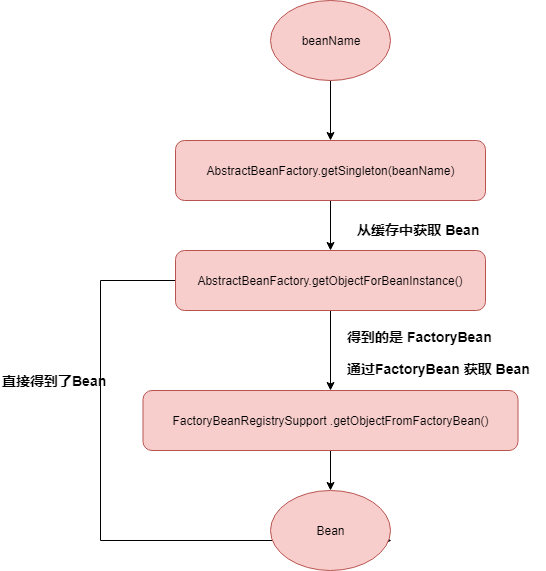
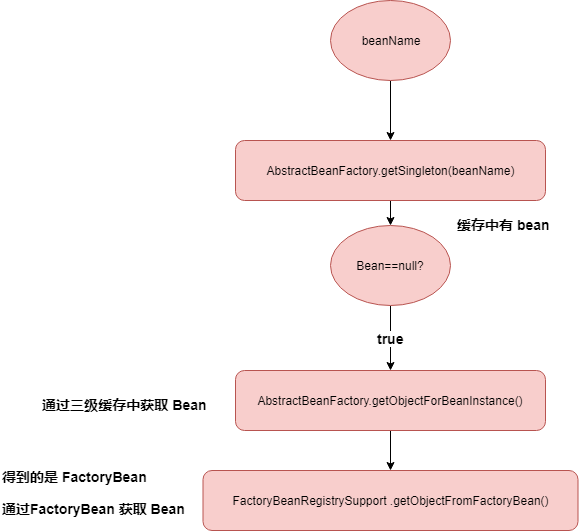
Spring源码之Bean的加载

Changed region(s): [[0.0, 0.6316, 1.0, 1.0], [0.1868, 0.0, 0.9652, 0.6015], [0.0, 0.6316, 0.1868, 0.6917]]

diff --git a/md/开源/Spring/(6)IoC之Bean的创建.md b/md/开源/Spring/(6)IoC之Bean的创建.md
@@ -2,6 +2,8 @@
 
 [TOC]
 
+## 前言
+
 在前面我们做了那么那么多的工作，我们终于将 BeanDefinition 给注册了，回顾一下我们前面的工作
 
 ![](https://github.com/esmusssein777/study/blob/master/md/picture/XML2BeanDefinition.png?raw=true)
@@ -592,7 +594,381 @@ private final Map<String, Object> factoryBeanObjectCache = new ConcurrentHashMap
 
 我们后面就会讲到。
 
+### 3. 缓存中没有 bean
+
+#### 3.1 检测原型模式
+
+在缓存中尝试获取了 Bean 之后，继续往后面走
+
+```
+			// AbstractBeanFactory.java
+			//检测
+			if (isPrototypeCurrentlyInCreation(beanName)) {
+				//因为 Spring 只解决单例模式下得循环依赖，在原型模式下如果存在循环依赖则会抛出异常。
+				throw new BeanCurrentlyInCreationException(beanName);
+			}
+```
+
+仔细看这个方法 isPrototypeCurrentlyInCreation(beanName)
+
+```
+			
+				private final ThreadLocal<Object> prototypesCurrentlyInCreation =
+			new NamedThreadLocal<>("Prototype beans currently in creation");
+			
+            protected boolean isPrototypeCurrentlyInCreation(String beanName) {
+		Object curVal = this.prototypesCurrentlyInCreation.get();
+		return (curVal != null &&
+				(curVal.equals(beanName) || (curVal instanceof Set && ((Set<?>) curVal).contains(beanName))));
+	}
+```
+
+这个方法是检测这个 `beanName` 是否处于原型模式下的循环依赖。检查的方法就是将它放入 ThreadLocal 里面，这个 ThreadLocal  放着正在创建的 Bean，只不过它不是一个全局的 Set，而是一个 ThreadLocal,原型模式 prototype 的定义是每次通过Spring容器获取prototype定义的bean时，容器都将创建一个新的Bean实例。所以需要的是 ThreadLocal 。
+
+#### 3.2. parentBeanFactory从父类容器中加载
+
+如果从单例模式没有获取 bean 则尝试从父类 beanFactory 中获取。
+
+```
+			// 如果容器中没有找到，则从父类容器中加载
+			BeanFactory parentBeanFactory = getParentBeanFactory();
+			// parentBeanFactory 不为空且 beanDefinitionMap 中不存该 name 的 BeanDefinition
+			if (parentBeanFactory != null && !containsBeanDefinition(beanName)) {
+				// 确定原始 beanName
+				String nameToLookup = originalBeanName(name);
+				// 如果，父类容器为 AbstractBeanFactory ，直接递归查找
+				if (parentBeanFactory instanceof AbstractBeanFactory) {
+					return ((AbstractBeanFactory) parentBeanFactory).doGetBean(
+							nameToLookup, requiredType, args, typeCheckOnly);
+				}
+				// 委托给构造函数 getBean() 处理
+				else if (args != null) {
+					// Delegation to parent with explicit args.
+					return (T) parentBeanFactory.getBean(nameToLookup, args);
+				}
+				// 没有 args，委托给标准的 getBean() 处理
+				else if (requiredType != null) {
+					return parentBeanFactory.getBean(nameToLookup, requiredType);
+				}
+				else {
+					return (T) parentBeanFactory.getBean(nameToLookup);
+				}
+			}
+```
+
+若 parentBeanFactory 不为空且 beanDefinitionMap 中不存该 name 的 BeanDefinition，则从 `parentBeanFactory` 中获取
+
+#### 3.3 类型检查
+
+继续向下
+
+```
+			if (!typeCheckOnly) {
+				// 如果不是仅仅做类型检查则是创建bean，这里需要记录
+				markBeanAsCreated(beanName);
+			}
+```
+
+如果不是仅仅做类型检查，而是创建 Bean 对象，则需要调用 `#markBeanAsCreated(String beanName)` 方法，进行记录。
+
+```
+// AbstractBeanFactory.java
+
+/**
+ *  已创建 Bean 的名字集合
+ */
+private final Set<String> alreadyCreated = Collections.newSetFromMap(new ConcurrentHashMap<>(256));
+
+protected void markBeanAsCreated(String beanName) {
+    // 没有创建
+    if (!this.alreadyCreated.contains(beanName)) {
+        // 加上全局锁
+        synchronized (this.mergedBeanDefinitions) {
+            // 再次检查一次：DCL 双检查模式
+            if (!this.alreadyCreated.contains(beanName)) {
+                // 从 mergedBeanDefinitions 中删除 beanName，并在下次访问时重新创建它。
+                clearMergedBeanDefinition(beanName);
+                // 添加到已创建 bean 集合中
+                this.alreadyCreated.add(beanName);
+            }
+        }
+    }
+}
+
+protected void clearMergedBeanDefinition(String beanName) {
+    this.mergedBeanDefinitions.remove(beanName);
+}
+```
+
+#### 3.4 获取 RootBeanDefinition
+
+```
+// AbstractBeanFactory.java
+
+// 从容器中获取 beanName 相应的 GenericBeanDefinition 对象，并将其转换为 RootBeanDefinition 对象
+final RootBeanDefinition mbd = getMergedLocalBeanDefinition(beanName);
+// 检查给定的合并的 BeanDefinition
+checkMergedBeanDefinition(mbd, beanName, args);
+```
+
+调用 `#getMergedLocalBeanDefinition(String beanName)` 方法，获取相对应的 BeanDefinition 对象
+
+```
+// AbstractBeanFactory.java
+
+/** Map from bean name to merged RootBeanDefinition. */
+private final Map<String, RootBeanDefinition> mergedBeanDefinitions = new ConcurrentHashMap<>(256);
+
+protected RootBeanDefinition getMergedLocalBeanDefinition(String beanName) throws BeansException {
+    // 快速从缓存中获取，如果不为空，则直接返回
+    RootBeanDefinition mbd = this.mergedBeanDefinitions.get(beanName);
+    if (mbd != null) {
+        return mbd;
+    }
+    // 获取 RootBeanDefinition，
+    // 如果返回的 BeanDefinition 是子类 bean 的话，则合并父类相关属性
+    return getMergedBeanDefinition(beanName, getBeanDefinition(beanName));
+}
+```
+
+- 首先，直接从 `mergedBeanDefinitions` 缓存中获取相应的 RootBeanDefinition 对象，如果存在则直接返回。
+- 否则，调用 `#getMergedBeanDefinition(String beanName, BeanDefinition bd)` 方法，获取 RootBeanDefinition 对象。
+
+调用 `#checkMergedBeanDefinition()` 方法，检查给定的合并的 BeanDefinition 对象。
+
+```
+// AbstractBeanFactory.java
+
+protected void checkMergedBeanDefinition(RootBeanDefinition mbd, String beanName, @Nullable Object[] args)
+		throws BeanDefinitionStoreException {
+	if (mbd.isAbstract()) {
+		throw new BeanIsAbstractException(beanName);
+	}
+}
+```
+
+#### 3.5 处理依赖
+
+如果一个 Bean 有依赖 Bean 的话，那么在初始化该 Bean 时是需要先初始化它所依赖的 Bean 。
+
+```
+// AbstractBeanFactory.java
+
+// 处理所依赖的 bean
+String[] dependsOn = mbd.getDependsOn();
+if (dependsOn != null) {
+    for (String dep : dependsOn) {
+        //若给定的依赖 bean 已经注册为依赖给定的 bean
+        if (isDependent(beanName, dep)) {
+            throw new BeanCreationException(mbd.getResourceDescription(), beanName,
+                    "Circular depends-on relationship between '" + beanName + "' and '" + dep + "'");
+        }
+        //缓存依赖调用
+        registerDependentBean(dep, beanName);
+        try {
+            //递归处理依赖 Bean
+            getBean(dep);
+        } catch (NoSuchBeanDefinitionException ex) {
+            throw new BeanCreationException(mbd.getResourceDescription(), beanName,
+                    "'" + beanName + "' depends on missing bean '" + dep + "'", ex);
+        }
+    }
+}
+```
+
+具体的代码还是通过两个 Map  `dependentBeanMap`、`dependenciesForBeanMap` 来处理，将该映射关系保存到两个集合来递归的处理。
+
+看下上面的过程图
+
+![](https://github.com/esmusssein777/study/blob/master/md/picture/RootBeanDefinition.png?raw=true)
+
+这样我们就得到了我们暂时想要的 RootBeanDefinition
+
+#### 3.6 不同scope 的 Bean 创建
+
+scope 有哪些呢？
+
+* singleton：单例模式，Spring IoC容器中只会存在一个共享的Bean实例，无论有多少个Bean引用它，始终指向同一对象。
+
+* prototype：原型模式，每次通过Spring容器获取prototype定义的bean时，容器都将创建一个新的Bean实例，每个Bean实例都有自己的属性和状态。
+
+* request：在一次Http请求中，容器会返回该Bean的同一实例。而对不同的Http请求则会产生新的Bean，而且该bean仅在当前Http Request内有效。
+
+* session：在一次Http Session中，容器会返回该Bean的同一实例。而对不同的Session请求则会创建新的实例，该bean实例仅在当前Session内有效。
+
+* global Session：在一个全局的Http Session中，容器会返回该Bean的同一个实例，仅在使用portlet context时有效
+
+我们来分析一下
+
+##### 3.6.1 singleton单例模式
+
+```
+				if (mbd.isSingleton()) {// 单例模式
+					sharedInstance = getSingleton(beanName, () -> {
+						try {
+							return createBean(beanName, mbd, args);
+						}
+						catch (BeansException ex) {
+							// 显式从单例缓存中删除 Bean 实例
+							// 因为单例模式下为了解决循环依赖，可能他已经存在了，所以销毁它。
+							destroySingleton(beanName);
+							throw ex;
+						}
+					});
+					bean = getObjectForBeanInstance(sharedInstance, name, beanName, mbd);
+				}
+```
+
+又看到了 getSingleton ,但是和我们之前的不一样。这个方法是由 DefaultSingletonBeanRegistry类的getSingleton(String beanName, ObjectFactory<?> singletonFactory)方法来实现
+
+```
+	//DefaultSingletonBeanRegistry.class
+	public Object getSingleton(String beanName, ObjectFactory<?> singletonFactory) {
+		Assert.notNull(beanName, "Bean name must not be null");
+		// 全局加锁
+		synchronized (this.singletonObjects) {
+			// 从缓存中检查一遍
+			// 因为 singleton 模式其实就是复用已经创建的 bean 所以这步骤必须检查
+			Object singletonObject = this.singletonObjects.get(beanName);
+			if (singletonObject == null) {
+				//  为空，开始加载过程
+				if (this.singletonsCurrentlyInDestruction) {
+					throw new BeanCreationNotAllowedException(beanName,
+							"Singleton bean creation not allowed while singletons of this factory are in destruction " +
+							"(Do not request a bean from a BeanFactory in a destroy method implementation!)");
+				}
+				if (logger.isDebugEnabled()) {
+					logger.debug("Creating shared instance of singleton bean '" + beanName + "'");
+				}
+				// 加载前置处理，前置和后置都很重要，标记bean创建到了哪一步
+				beforeSingletonCreation(beanName);
+				boolean newSingleton = false;
+				boolean recordSuppressedExceptions = (this.suppressedExceptions == null);
+				if (recordSuppressedExceptions) {
+					this.suppressedExceptions = new LinkedHashSet<>();
+				}
+				try {
+					// 初始化 bean
+					// 这个过程其实是调用 createBean() 方法
+					singletonObject = singletonFactory.getObject();
+					newSingleton = true;
+				}
+				catch (IllegalStateException ex) {
+					singletonObject = this.singletonObjects.get(beanName);
+					if (singletonObject == null) {
+						throw ex;
+					}
+				}
+				catch (BeanCreationException ex) {
+					if (recordSuppressedExceptions) {
+						for (Exception suppressedException : this.suppressedExceptions) {
+							ex.addRelatedCause(suppressedException);
+						}
+					}
+					throw ex;
+				}
+				finally {
+					if (recordSuppressedExceptions) {
+						this.suppressedExceptions = null;
+					}
+					//后置处理
+					afterSingletonCreation(beanName);
+				}
+				//加入缓存中
+				if (newSingleton) {
+					addSingleton(beanName, singletonObject);
+				}
+			}
+			return singletonObject;
+		}
+	}
+```
+
+这个过程并没有真正创建 Bean 对象，仅仅只是做了一部分准备和预处理步骤。真正获取单例 bean 的方法，其实是由 `<3>` 处的 `singletonFactory.getObject()` 这部分代码块来实现，而 `singletonFactory` 由回调方法产生。
+
+- 再次检查缓存是否已经加载过，如果已经加载了则直接返回，否则开始加载过程。
+- 调用 `#beforeSingletonCreation(String beanName)` 方法，记录加载单例 bean 之前的加载状态，即前置处理。
+- 调用参数传递的 ObjectFactory 的 `#getObject()` 方法，实例化 bean 。(后面还有好多要讲的)
+- 调用 `#afterSingletonCreation(String beanName)` 方法，进行加载单例后的后置处理。
+- 调用 `#addSingleton(String beanName, Object singletonObject)` 方法，将结果记录并加入值缓存中，同时删除加载 bean 过程中所记录的一些辅助状态
+
+加载了单例 bean 后，调用 `#getObjectForBeanInstance(Object beanInstance, String name, String beanName, RootBeanDefinition mbd)` 方法，从 bean 实例中获取对象。该方法已经在前面有讲过了
+
+##### 3.6.2 prototype原型模式
+
+原型模式很简单，因为不需要缓存，直接创建Bean就行
+
+```
+// AbstractBeanFactory.java
+
+else if (mbd.isPrototype()) {
+    Object prototypeInstance = null;
+    try {
+       //加载前置处理
+        beforePrototypeCreation(beanName);
+        //创建 Bean 对象
+        prototypeInstance = createBean(beanName, mbd, args);
+    } finally {
+       //加载后缀处理
+        afterPrototypeCreation(beanName);
+    }
+    //从 Bean 实例中获取对象
+    bean = getObjectForBeanInstance(prototypeInstance, name, beanName, mbd);
+}
+```
+
+它的前置和后置处理是通过 ThreadLocal 来防止重复创建，将正在创建的 bean 放入 ThreadLocal  来处理
+
+##### 3.6.3 其他三个 scope
+
+```
+// AbstractBeanFactory.java
+
+else {
+    // 获得 scopeName 对应的 Scope 对象
+    String scopeName = mbd.getScope();
+    final Scope scope = this.scopes.get(scopeName);
+    if (scope == null) {
+        throw new IllegalStateException("No Scope registered for scope name '" + scopeName + "'");
+    }
+    try {
+        // 从指定的 scope 下创建 bean
+        Object scopedInstance = scope.get(beanName, () -> {
+            // 加载前置处理
+            beforePrototypeCreation(beanName);
+            try {
+                // 创建 Bean 对象
+                return createBean(beanName, mbd, args);
+            } finally {
+                // 加载后缀处理
+                afterPrototypeCreation(beanName);
+            }
+        });
+        // 从 Bean 实例中获取对象
+        bean = getObjectForBeanInstance(scopedInstance, name, beanName, mbd);
+    } catch (IllegalStateException ex) {
+        throw new BeanCreationException(beanName,
+                "Scope '" + scopeName + "' is not active for the current thread; consider " +
+                "defining a scoped proxy for this bean if you intend to refer to it from a singleton",
+                ex);
+    }
+}
+```
+
+看到其实和 prototype 差不多，区别在于这三个获取 bean 实例是由 `Scope#get(String name, ObjectFactory<?> objectFactory)` 方法来实现。而 prototype 原型模式是通过调用 `#createBean(String beanName)` 方法，创建一个 bean 实例对象。
 
 
 
+关于具体创建 Bean 的代码我们后面再讲，我们就暂时的复习一下我们前面的学习
 
+![](https://github.com/esmusssein777/study/blob/master/md/picture/Scope.png?raw=true)
+
+分析完Scope的工作后我们还有非常主要的一点没有讲，就是关于创建 Bean 的工作，我们这个留着下一节再将吧。
+
+## 小结
+
+来看看我们这一节的图，看完就会稍微的更加明白一点的(●ˇ∀ˇ●)
+
+![](https://github.com/esmusssein777/study/blob/master/md/picture/Name2Scope.png?raw=true)
+
+我们的工作暂时就分析到 CreateBean()吧。
